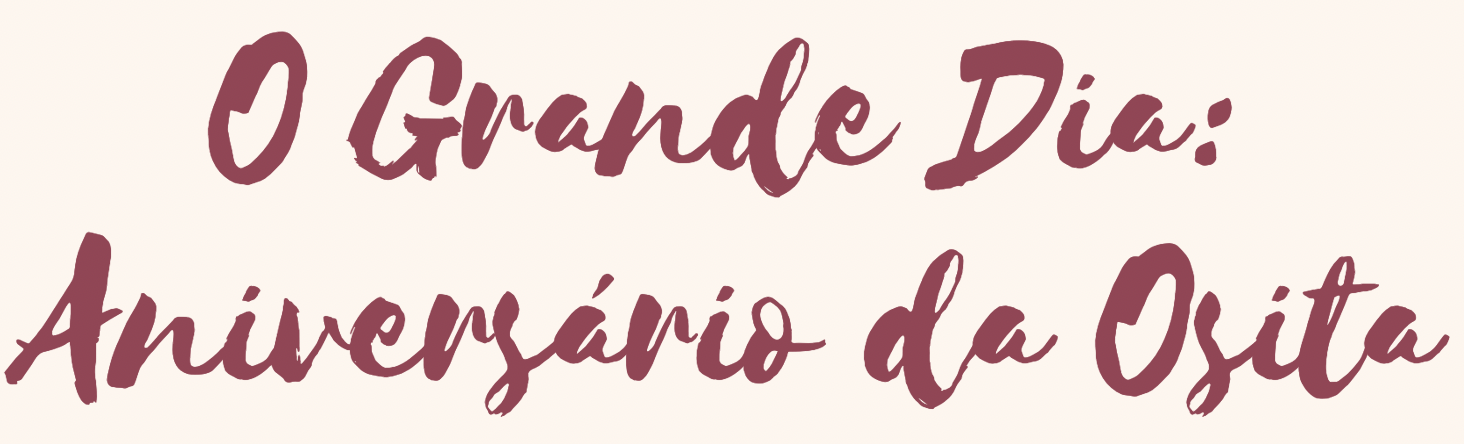
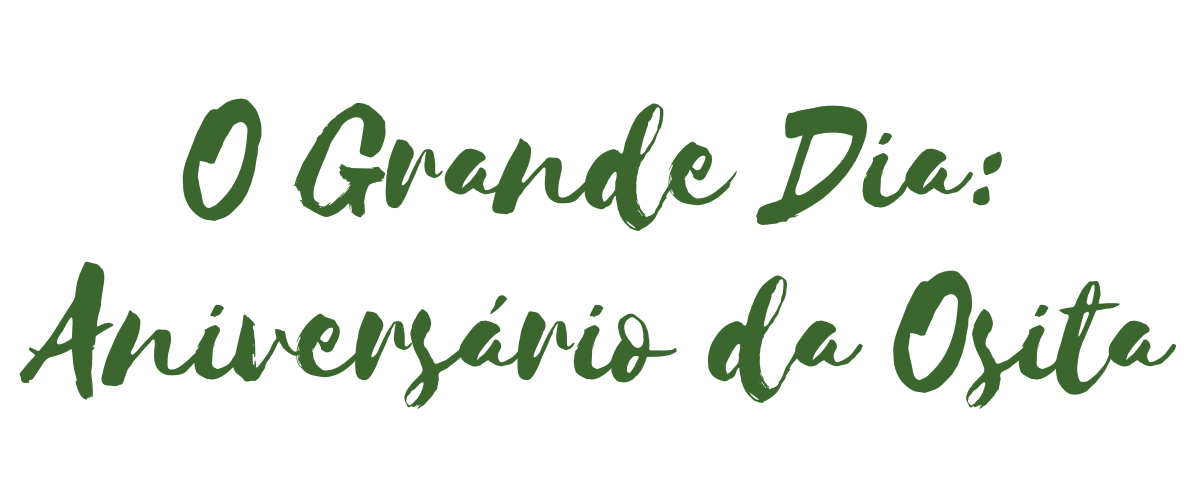
feat/add starting point

Changed region(s): [[0.0, 0.527, 1.0, 0.9369], [0.1233, 0.0586, 0.8633, 0.4685]]

diff --git a/src/components/CountDownTimer/CountDownTimer.jsx b/src/components/CountDownTimer/CountDownTimer.jsx
@@ -1,0 +1,122 @@
+import React, { useState, useEffect, useMemo } from "react";
+import "./CountDownTimer.css";
+import image from "../../img/title.png";
+import image2 from "../../img/title2.png";
+
+const CountdownTimer = () => {
+  const eventDate = useMemo(() => new Date(2025, 0, 7), []);
+  const spEventDate = useMemo(() => new Date("January 1, 2025, 7:30:00"), []);
+  const defaultRemainingTime = eventDate.getTime() - new Date().getTime();
+
+  const [birthdayTimeRemaining, setBirthdayTimeRemaining] = useState(defaultRemainingTime);
+  const [startingPointTimeRemaining, setStartingPointTimeRemaining] = useState(defaultRemainingTime);
+  const [timerSelected, setTimerSelected] = useState("birthday");
+  const selectedDate = timerSelected === "birthday" ? eventDate : spEventDate;
+
+  useEffect(() => {
+      const countdownInterval = setInterval(() => {
+        const currentTime = new Date().getTime();
+        const eventTime = new Date(eventDate).getTime();
+        const spEventTime = new Date(spEventDate).getTime();
+        let birthdayRemainingTime = eventTime - currentTime;
+        let startingPointRemainingTime = spEventTime - currentTime;
+
+        if (birthdayRemainingTime <= 0) {
+          birthdayRemainingTime = 0;
+          clearInterval(countdownInterval);
+        }
+
+        setBirthdayTimeRemaining(birthdayRemainingTime);
+        setStartingPointTimeRemaining(startingPointRemainingTime);
+      }, 1000);
+
+      return () => clearInterval(countdownInterval);
+  }, [eventDate, spEventDate, birthdayTimeRemaining]);
+
+  const formatDate = (date) => {
+    const options = { month: "long", day: "numeric", year: "numeric" };
+    return new Date(date).toLocaleDateString("pt-BR", options);
+  };
+
+  const formatTime = (time) => {
+    const seconds = Math.floor((time / 1000) % 60);
+    const minutes = Math.floor((time / (1000 * 60)) % 60);
+    const hours = Math.floor((time / (1000 * 60 * 60)) % 24);
+    const days = Math.floor(time / (1000 * 60 * 60 * 24));
+
+    return (
+      <div className="countdown-display">
+        <div className="countdown-value">
+          <p>
+            {days.toString().padStart(2, "0")}
+          </p>
+          <span>dias</span>
+        </div>
+        <div className="countdown-value">
+          <p>
+            {hours.toString().padStart(2, "0")}
+          </p>
+          <span> horas</span>
+        </div>
+        <div className="countdown-value">
+          <p>
+            {minutes.toString().padStart(2, "0")}
+          </p>
+          <span>minutos</span>
+        </div>
+        <div className="countdown-value">
+          <p>
+            {seconds.toString().padStart(2, "0")}
+          </p>
+          <span>segundos</span>
+        </div>
+        {timerSelectButton()}
+      </div>
+    );
+  };
+
+  const timerSelectButton = () => {
+    const toogleValue = timerSelected === "birthday" ? "startingPoint" : "birthday";
+    return (
+      <div>
+        <button
+          className="timer-button"
+          onClick={() => setTimerSelected(toogleValue)}
+        >
+          <svg viewBox="0 0 20 20" version="1.1" xmlns="http://www.w3.org/2000/svg">
+            <g id="layer</g>1">
+              <path d="M 4 2.5 L 3 3.5 L 3 8 L 7.5 8 L 8.5 7 L 4.6601562 7 L 5.4628906 6.0722656 L 5.7695312 5.7441406 L 6.0996094 5.4414062 L 6.4492188 5.1621094 L 6.8203125 4.9101562 L 7.2089844 4.6875 L 7.6152344 4.4941406 L 8.0332031 4.3300781 L 8.4609375 4.2011719 L 8.8984375 4.1015625 L 9.3417969 4.0351562 L 9.7890625 4.0039062 L 10.238281 4.0058594 L 10.685547 4.0390625 L 11.128906 4.1054688 L 11.564453 4.2070312 L 11.994141 4.3398438 L 12.410156 4.5058594 L 12.814453 4.7011719 L 13.201172 4.9257812 L 13.572266 5.1777344 L 13.921875 5.4589844 L 14.25 5.7636719 L 14.554688 6.09375 L 14.833984 6.4453125 L 15.083984 6.8164062 L 15.310547 7.2050781 L 15.501953 7.609375 L 15.666016 8.0273438 L 15.796875 8.4550781 L 15.896484 8.8925781 L 15.962891 9.3359375 L 15.994141 9.7851562 L 15.994141 10 L 17 10 L 17 9.9902344 L 16.982422 9.5058594 L 16.931641 9.0214844 L 16.847656 8.5449219 L 16.728516 8.0742188 L 16.580078 7.6113281 L 16.398438 7.1621094 L 16.185547 6.7265625 L 15.945312 6.3046875 L 15.675781 5.9023438 L 15.376953 5.5175781 L 15.054688 5.15625 L 14.707031 4.8183594 L 14.335938 4.5058594 L 13.945312 4.2167969 L 13.535156 3.9570312 L 13.109375 3.7285156 L 12.666016 3.5273438 L 12.210938 3.3574219 L 11.746094 3.2207031 L 11.271484 3.1152344 L 10.792969 3.0449219 L 10.306641 3.0058594 L 9.8222656 3 L 9.3378906 3.0292969 L 8.8574219 3.0917969 L 8.3808594 3.1894531 L 7.9140625 3.3183594 L 7.4550781 3.4785156 L 7.0097656 3.6699219 L 6.578125 3.8925781 L 6.1640625 4.1445312 L 5.7675781 4.4238281 L 5.390625 4.7304688 L 5.0371094 5.0605469 L 4.7070312 5.4179688 L 4 6.234375 L 4 2.5 z M 3 10 L 3 10.007812 L 3.0175781 10.492188 L 3.0683594 10.976562 L 3.1523438 11.453125 L 3.2714844 11.923828 L 3.4199219 12.386719 L 3.6015625 12.835938 L 3.8144531 13.271484 L 4.0546875 13.693359 L 4.3242188 14.095703 L 4.6230469 14.480469 L 4.9453125 14.841797 L 5.2929688 15.179688 L 5.6640625 15.492188 L 6.0546875 15.78125 L 6.4648438 16.041016 L 6.890625 16.269531 L 7.3339844 16.470703 L 7.7890625 16.640625 L 8.2539062 16.777344 L 8.7285156 16.882812 L 9.2070312 16.953125 L 9.6933594 16.992188 L 10.177734 16.998047 L 10.662109 16.96875 L 11.142578 16.90625 L 11.619141 16.808594 L 12.085938 16.679688 L 12.544922 16.519531 L 12.990234 16.328125 L 13.421875 16.105469 L 13.835938 15.853516 L 14.232422 15.574219 L 14.609375 15.267578 L 14.962891 14.9375 L 15.292969 14.580078 L 16 13.763672 L 16 17.498047 L 17 16.498047 L 17 11.998047 L 12.5 11.998047 L 11.5 12.998047 L 15.339844 12.998047 L 14.537109 13.925781 L 14.230469 14.253906 L 13.900391 14.556641 L 13.550781 14.835938 L 13.179688 15.087891 L 12.791016 15.310547 L 12.384766 15.503906 L 11.966797 15.667969 L 11.539062 15.796875 L 11.101562 15.896484 L 10.658203 15.962891 L 10.210938 15.994141 L 9.7617188 15.992188 L 9.3144531 15.958984 L 8.8710938 15.892578 L 8.4355469 15.791016 L 8.0058594 15.658203 L 7.5898438 15.492188 L 7.1855469 15.296875 L 6.7988281 15.072266 L 6.4277344 14.820312 L 6.078125 14.539062 L 5.75 14.234375 L 5.4453125 13.904297 L 5.1660156 13.552734 L 4.9160156 13.181641 L 4.6894531 12.792969 L 4.4980469 12.388672 L 4.3339844 11.970703 L 4.203125 11.542969 L 4.1035156 11.105469 L 4.0371094 10.662109 L 4.0058594 10.212891 L 4.0058594 10 L 3 10 z " 
+                    style={{fill: "#e8ffe2", fillOpacity: 1, stroke: "none", strokeWidth:"0px"}}/>
+            </g>
+          </svg>
+        </button>
+      </div>
+    )
+  }
+
+  return (
+    <div className={"countdown-page" + (timerSelected === "birthday" ? "" : "-dark")}>
+      <div className="countdown-timer-container">
+        <div className="countdown-image-container">
+          <img src={timerSelected === "birthday" ? image : image2} alt="Title" className="countdown-image" height="200px" />
+        </div>
+        <p className="countdown-title">
+          Contagem para o {timerSelected === "birthday" ? "aniversário" : "primeiro evento"}
+        </p>
+        <p className={"countdown-date" + (timerSelected === "birthday" ? "" : "-dark")}>
+          {formatDate(selectedDate)}
+        </p>
+
+        <>
+          {timerSelected === "birthday" && formatTime(birthdayTimeRemaining)}
+          {timerSelected === "startingPoint" && formatTime(startingPointTimeRemaining)}
+        </>
+      </div>
+      <div className="footer">
+        Feito por Xuxuzinho
+      </div>
+    </div>
+  );
+};
+
+export default CountdownTimer;

diff --git a/src/components/CountDownTimer/CountDownTimer.css b/src/components/CountDownTimer/CountDownTimer.css
@@ -4,7 +4,7 @@
   box-sizing: border-box;
 }
 
-body {
+.countdown-page {
   background: #fff6ee;
   background-size: cover;
   font-family: "Inter", sans-serif;
@@ -16,6 +16,22 @@ body {
   margin: 0 auto;
   width: 100vw;
   height: 100vh;
+  transition: background-color 0.5s;
+}
+
+.countdown-page-dark {
+  background: #272B33;
+  background-size: cover;
+  font-family: "Inter", sans-serif;
+  font-size: 1rem;
+  display: flex;
+  justify-content: center;
+  align-items: center;
+  flex-direction: column;
+  margin: 0 auto;
+  width: 100vw;
+  height: 100vh;
+  transition: background-color 0.5s;
 }
 
 .countdown-timer-container{
@@ -27,6 +43,7 @@ body {
 
 .countdown-image {
   max-width: -webkit-fill-available;
+  transition: 0.5s;
 }
 
 .countdown-image-container{
@@ -38,7 +55,7 @@ body {
 }
 
 .countdown-date {
-  color: #9b4054;
+  color: #3b662e;
   margin-top: 0;
   margin-bottom: 2rem;
   text-align: center;
@@ -46,10 +63,51 @@ body {
   font-size: 18px;
 }
 
+.countdown-date-dark {
+  color: #95dd7f;
+  margin-top: 0;
+  margin-bottom: 2rem;
+  text-align: center;
+  font-weight: 600;
+  font-size: 18px;
+}
+
+.countdown-title {
+  background-color: #3b662e;
+  color: #e8ffe2;
+  margin-top: 0;
+  margin-bottom: 1rem;
+  padding: .5rem 1rem;
+  text-align: center;
+  font-weight: 600;
+  font-size: 22px;
+  border-radius: .75rem;
+}
+
 .countdown-display {
   display: flex;
   justify-content: space-around;
+  align-items: center;
   gap: .75rem;
+}
+
+.timer-button {
+  background-color: #3b662e;
+  border-radius: 50%;
+  border: none;
+  align-items: center;
+  justify-content: center;
+  padding: 1.5rem;
+  margin: 0 0 0 1rem;
+  text-align: center;
+  width: 120px;
+  height: 120px;
+  display: flex;
+  flex-direction: column;
+}
+
+.timer-button:hover {
+  background-color: #95dd7f;
 }
 
 .footer{
@@ -60,15 +118,15 @@ body {
   text-align: center;
   font-size: 1rem;
   padding: 1rem;
-  background-color: #9b4054;
+  background-color: #3b662e;
   color: white;
   border-radius: .75rem;
 }
 
 .countdown-value:not(span) {
-  background-color: #FFE2FE;
+  background-color: #e8ffe2;
   border-radius: 50%;
-  color: #9F2042;
+  color: #3b662e;
   font-size: 46px;
   padding: 10px;
   text-align: center;
@@ -84,7 +142,7 @@ body {
 }
 
 .countdown-value > span {
-  color: #9F2042;
+  color: #3b662e;
   font-size: 0.8rem;
   letter-spacing: 2px;
   text-transform: uppercase;
@@ -97,7 +155,6 @@ body {
 
   .countdown-display {
     flex-direction: column;
-    align-items: center;
     gap: .5rem;
   }
 
@@ -113,5 +170,11 @@ body {
 
   .countdown-value > p {
     margin-top: 0;
+  }
+
+  .timer-button {
+    margin: 0 0 1rem 0;
+    height: 80px;
+    width: 80px;
   }
 }

diff --git a/src/App.js b/src/App.js
@@ -1,5 +1,5 @@
 import './App.css';
-import CountdownTimer from './components/CountDownTimer';
+import CountdownTimer from './components/CountDownTimer/CountDownTimer';
 
 function App() {
   return (
